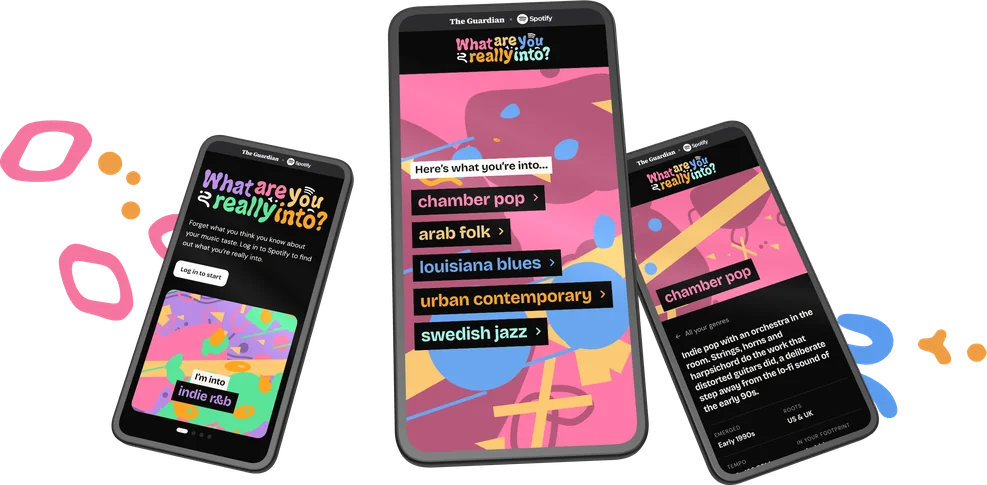
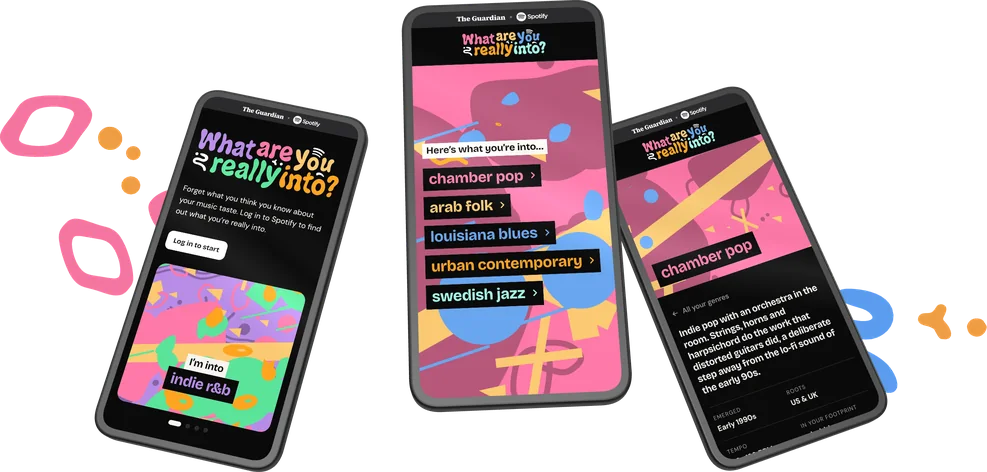
Add files via upload

diff --git a/index.html b/index.html
@@ -315,8 +315,9 @@ setTimeout(function(){ document.documentElement.setAttribute('data-dc-ready','')
   @media (min-width: 701px) and (max-width: 1194px), (min-width: 701px) and (max-width: 1366px) and (orientation: portrait) {
     [data-role="cv-bg"][data-sec="akqa"] { background: radial-gradient(circle at 50% 46%, #DDEBFA 0%, #CFE0F4 35%, #B9CDE8 100%) !important; }
   }
-  /* iPad: a long press on the drawn scenes (intro bubbles, 3D canvases) shouldn't open the save-image menu */
-  canvas, [data-role="cv-stillbox"] img { -webkit-touch-callout: none; -webkit-user-select: none; user-select: none; -webkit-tap-highlight-color: transparent; }
+  /* iPad: a long press on any image, video or scene (intro bubbles, 3D, stills) opens no save-image menu and selects nothing */
+  img, picture, video, canvas, svg, image-slot, iframe,
+  [data-role="cv-imggroup"], [data-role="cv-stillbox"], [data-role="cv-approach"], [data-role="cv-bg"] { -webkit-touch-callout: none; -webkit-user-select: none; user-select: none; -webkit-tap-highlight-color: transparent; }
   [data-role="cv-title"] { transition:opacity 520ms ease 120ms, transform 620ms cubic-bezier(.16,1,.3,1) 120ms, color 500ms ease !important; }
   [data-role="cv-desc"] > div:first-child { transition:color 500ms ease; }
   html[data-smart-bg="zurich"] [data-role="cv-entry"][data-smart="true"] [data-role="cv-title"],
@@ -375,7 +376,7 @@ setTimeout(function(){ document.documentElement.setAttribute('data-dc-ready','')
         <sc-if value="{{ e.approachOn }}" hint-placeholder-val="{{ false }}">
           <div data-role="cv-approach" style="position:absolute; inset:0; z-index:6; transform:translateX({{ e.introDx }}); transition:transform 820ms cubic-bezier(.3,0,.2,1)">
             <sc-if value="{{ e.approachNear }}" hint-placeholder-val="{{ false }}">
-              <iframe src="./portrait/?v=24" title="My approach: Paul at his desk and on his bike" loading="eager" style="width:100%; height:100%; border:0; display:block; background:transparent"></iframe>
+              <iframe src="./portrait/?v=25" title="My approach: Paul at his desk and on his bike" loading="eager" style="width:100%; height:100%; border:0; display:block; background:transparent"></iframe>
             </sc-if>
           </div>
         </sc-if>
@@ -383,21 +384,21 @@ setTimeout(function(){ document.documentElement.setAttribute('data-dc-ready','')
           <sc-if value="{{ e.wide4 }}" hint-placeholder-val="{{ false }}">
             <div data-role="cv-vf3d" style="position:absolute; left:30%; right:2%; top:6%; bottom:12%; z-index:2; transform:translateX({{ e.images.0.dx }}); transition:transform 820ms cubic-bezier(.3,0,.2,1)">
               <sc-if value="{{ e.vf3dNear }}" hint-placeholder-val="{{ false }}">
-                <iframe ref="{{ e.vf3dRef }}" src="./vodafone.html?embed=1&v=2" title="Vodafone app screens in 3D" loading="eager" fetchpriority="high" style="width:100%; height:100%; border:0; display:block; background:transparent; touch-action:none"></iframe>
+                <iframe ref="{{ e.vf3dRef }}" src="./vodafone.html?embed=1&v=3" title="Vodafone app screens in 3D" loading="eager" fetchpriority="high" style="width:100%; height:100%; border:0; display:block; background:transparent; touch-action:none"></iframe>
               </sc-if>
             </div>
           </sc-if>
           <sc-if value="{{ e.wide4Even }}" hint-placeholder-val="{{ false }}">
             <div data-role="cv-akqa3d" style="position:absolute; left:0; right:0; top:0; bottom:0; z-index:2; transform:translateX({{ e.images.0.dx }}); transition:transform 820ms cubic-bezier(.3,0,.2,1)">
               <sc-if value="{{ e.akqa3dNear }}" hint-placeholder-val="{{ false }}">
-                <iframe src="./akqa.html?embed=1&v=20260910b" title="AKQA cardiovascular iPad app in 3D" loading="eager" allowtransparency="true" style="width:100%; height:100%; border:0; display:block; background:transparent; touch-action:none"></iframe>
+                <iframe src="./akqa.html?embed=1&v=20261005" title="AKQA cardiovascular iPad app in 3D" loading="eager" allowtransparency="true" style="width:100%; height:100%; border:0; display:block; background:transparent; touch-action:none"></iframe>
               </sc-if>
             </div>
           </sc-if>
           <sc-if value="{{ e.wide3 }}" hint-placeholder-val="{{ false }}">
             <div data-role="cv-gu3d" style="position:absolute; left:0; right:0; top:0; bottom:0; z-index:2; transform:translateX({{ e.images.0.dx }}); transition:transform 820ms cubic-bezier(.3,0,.2,1)">
               <sc-if value="{{ e.gu3dNear }}" hint-placeholder-val="{{ false }}">
-                <iframe ref="{{ e.gu3dRef }}" src="./guardian.html?embed=1&v=12" title="The Guardian x Spotify app screens in 3D" loading="eager" allowtransparency="true" style="width:100%; height:100%; border:0; display:block; background:transparent; touch-action:none"></iframe>
+                <iframe ref="{{ e.gu3dRef }}" src="./guardian.html?embed=1&v=14" title="The Guardian x Spotify app screens in 3D" loading="eager" allowtransparency="true" style="width:100%; height:100%; border:0; display:block; background:transparent; touch-action:none"></iframe>
               </sc-if>
             </div>
           </sc-if>
@@ -460,7 +461,7 @@ setTimeout(function(){ document.documentElement.setAttribute('data-dc-ready','')
               <div style="width:100%; height:100%; transform:translateX({{ e.introDx }}); transition:transform 820ms cubic-bezier(.3,0,.2,1)">
                 <div style="width:100%; height:100%; animation:none">
                   <sc-if value="{{ e.bt3dNear }}" hint-placeholder-val="{{ true }}">
-                    <iframe data-role="cv-bt3d" src="./nespresso.html?v=3" title="Nespresso Built Together composition" loading="eager" fetchpriority="high" allowtransparency="true" scrolling="no" style="position:absolute; inset:0; width:100%; height:100%; border:0; display:block; background:transparent"></iframe>
+                    <iframe data-role="cv-bt3d" src="./nespresso.html?v=4" title="Nespresso Built Together composition" loading="eager" fetchpriority="high" allowtransparency="true" scrolling="no" style="position:absolute; inset:0; width:100%; height:100%; border:0; display:block; background:transparent"></iframe>
                   </sc-if>
                 </div>
               </div>
@@ -469,7 +470,7 @@ setTimeout(function(){ document.documentElement.setAttribute('data-dc-ready','')
           <sc-if value="{{ e.smartComp }}" hint-placeholder-val="{{ false }}">
             <div data-role="cv-smart3d" style="position:absolute; left:0; right:0; top:0; bottom:0; z-index:2; transform:translateX({{ e.images.0.dx }}); transition:transform 820ms cubic-bezier(.3,0,.2,1) {{ e.images.0.delay }}ms">
               <sc-if value="{{ e.smart3dNear }}" hint-placeholder-val="{{ false }}">
-                <iframe ref="{{ e.smart3dRef }}" src="./smart.html?embed=1&bg=transparent&v=14" title="Smart Pension and Zurich app screens in 3D" loading="eager" allowtransparency="true" scrolling="no" style="width:100%; height:100%; border:0; display:block; background:transparent"></iframe>
+                <iframe ref="{{ e.smart3dRef }}" src="./smart.html?embed=1&bg=transparent&v=15" title="Smart Pension and Zurich app screens in 3D" loading="eager" allowtransparency="true" scrolling="no" style="width:100%; height:100%; border:0; display:block; background:transparent"></iframe>
               </sc-if>
             </div>
           </sc-if>
@@ -1307,9 +1308,9 @@ class Component extends DCLogic {
         introDx: on ? "0px" : (i < active ? "calc(-100vw - 100%)" : "calc(100vw + 100%)"),
         stillOn: stills && !!STILLS[d.short],
         stillName: (STILLS[d.short] || [""])[0],
-        stillSrc: STILLS[d.short] ? "./assets/mobile/" + STILLS[d.short][0] + ".webp?v=11" : "",
+        stillSrc: STILLS[d.short] ? "./assets/mobile/" + STILLS[d.short][0] + ".webp?v=12" : "",
         // AKQA: the upright capture frames the iPad larger, so it is used sideways too
-        stillLand: STILLS[d.short] ? "./assets/mobile/" + STILLS[d.short][0] + (STILLS[d.short][0] === "akqa" ? "" : "-land") + ".webp?v=11" : "",
+        stillLand: STILLS[d.short] ? "./assets/mobile/" + STILLS[d.short][0] + (STILLS[d.short][0] === "akqa" ? "" : "-land") + ".webp?v=12" : "",
         stillAlt: STILLS[d.short] ? STILLS[d.short][1] : "",
         blobLeftPx: ((this.state.mx || 0) * 26).toFixed(1) + "px",
         blobLeftPy: ((this.state.my || 0) * 16).toFixed(1) + "px",

diff --git a/portrait/script.js b/portrait/script.js
@@ -115,7 +115,25 @@
   const target = { mix: 1, px: 0, py: 0 };
   const cur = { mix: 1, px: 0, py: 0 };
   let touched = false, travelled = 0, lastX = null, lastMove = 0;
+  // Touch: a drag reveals the other picture (grab the line and pull it across); on release it
+  // settles on whichever picture is mostly showing. A tap alone changes nothing.
+  // Mouse: the cursor's position across the page picks the picture, as before.
+  let drag = null;
   const onPoint = e => {
+    if (e.pointerType === 'touch') {
+      if (e.type === 'pointerdown') drag = { x: e.clientX, mix: target.mix };
+      if (!drag) return;
+      const fw = Math.max(1, w || innerWidth);
+      target.mix = Math.min(1, Math.max(0, drag.mix - (e.clientX - drag.x) / (fw * 0.8)));   // pull right → desk
+      target.px = 0; target.py = 0;
+      if (!touched && Math.abs(e.clientX - drag.x) > 12) {
+        touched = true;
+        hint.classList.add('is-gone');
+        document.getElementById('swipecue').classList.add('is-gone');
+      }
+      lastMove = performance.now();
+      return;
+    }
     const nx = e.clientX / innerWidth, ny = e.clientY / innerHeight;
     target.mix = smooth(Math.min(1, Math.max(0, (nx - 0.3) / 0.4)));
     target.px = nx - 0.5;
@@ -131,6 +149,13 @@
   };
   addEventListener('pointermove', onPoint, { passive: true });
   addEventListener('pointerdown', onPoint, { passive: true });
+  const endDrag = e => {
+    if (!drag || e.pointerType !== 'touch') return;
+    drag = null;
+    target.mix = target.mix < 0.5 ? 0 : 1;           // settle on the nearer picture
+  };
+  addEventListener('pointerup', endDrag, { passive: true });
+  addEventListener('pointercancel', endDrag, { passive: true });
   document.addEventListener('pointerleave', () => { target.px = 0; target.py = 0; });
 
   // wipe helpers: x of the seam at mid-height (the out-of-focus scene keeps a sliver at the narrow end)

diff --git a/portrait/index.html b/portrait/index.html
@@ -10,7 +10,7 @@
 <!-- inside the homepage timeline: switch to the embedded layout before the first paint, so the
      standalone layout never flashes up on load -->
 <script>try { if (window.parent !== window) document.documentElement.classList.add('is-embedded'); } catch (e) { document.documentElement.classList.add('is-embedded'); }</script>
-<link rel="stylesheet" href="style.css?v=19">
+<link rel="stylesheet" href="style.css?v=20">
 </head>
 <body>
 <main class="portrait" id="portrait" style="--mix:1">
@@ -106,6 +106,6 @@
 
   <p class="hint" id="hint" aria-hidden="true"><span>&larr;</span> move <span>&rarr;</span></p>
 </main>
-<script src="script.js?v=21"></script>
+<script src="script.js?v=22"></script>
 </body>
 </html>

diff --git a/guardian-scene.js b/guardian-scene.js
@@ -185,9 +185,9 @@ class GuardianSceneCopy extends HTMLElement {
       g.add(sheen);
 
       const layout = [
-        { x: -6.6, y: -0.7, z: -0.4, rz: -0.26, scale: 0.86 },
-        { x: 0.4,  y: 0.9,  z: 1.1,  rz: 0.07,  scale: 1.2 },
-        { x: 6.4,  y: -0.4, z: -0.6, rz: 0.32,  scale: 0.92 }
+        { x: -6.6, y: -0.7, z: -0.4, rz: -0.26, scale: 0.97 },
+        { x: 0.4,  y: 0.9,  z: 1.1,  rz: 0.07,  scale: 1.06 },   // only slightly bigger than the side phones
+        { x: 6.4,  y: -0.4, z: -0.6, rz: 0.32,  scale: 0.97 }
       ][i];
       g.position.set(layout.x, layout.y, layout.z);
       g.rotation.y = 0;

diff --git a/guardian.html b/guardian.html
@@ -36,6 +36,8 @@ try {
   html, body { margin:0; padding:0; height:100%; background:rgba(0,0,0,0) !important; color-scheme:normal; }
   guardian-scene, guardian-scene canvas { background:rgba(0,0,0,0) !important; }
   guardian-scene { display:block; width:100%; height:100vh; min-height:520px; overflow:hidden; touch-action:none; }
+  /* iPad: no save-image menu or selection on a long press */
+  html, body, img, picture, video, canvas, svg, image-slot { -webkit-touch-callout: none; -webkit-user-select: none; user-select: none; -webkit-tap-highlight-color: transparent; }
 </style>
 <script>
 window.CVRES = function (p) {

diff --git a/smart.html b/smart.html
@@ -37,6 +37,8 @@ try {
   smart-scene { display:block; width:100%; height:100%; min-height:0; overflow:hidden; touch-action:none; }
   /* tablet and up the cursor picks Smart (left) or Zurich (right): same left/right cursor as the portrait page */
   @media (min-width: 701px) { html, body { cursor: ew-resize; } }
+  /* iPad: no save-image menu or selection on a long press */
+  html, body, img, picture, video, canvas, svg, image-slot { -webkit-touch-callout: none; -webkit-user-select: none; user-select: none; -webkit-tap-highlight-color: transparent; }
 </style>
 <script>
 window.CVRES = function (p) {

diff --git a/akqa.html b/akqa.html
@@ -31,6 +31,8 @@ try {
   html.standalone, html.standalone body { background: #cbdaec; }
   html.standalone body { background: radial-gradient(circle at 50% 46%, #ebf6ff 0%, #ebf6ff 20%, #dbe8f7 62%, #cbdaec 100%); }
   canvas { display: block; touch-action: none; cursor: default; }
+  /* iPad: no save-image menu or selection on a long press */
+  html, body, img, picture, video, canvas, svg, image-slot { -webkit-touch-callout: none; -webkit-user-select: none; user-select: none; -webkit-tap-highlight-color: transparent; }
 </style>
 <script>
 window.CVRES = function (p) {

diff --git a/nespresso.html b/nespresso.html
@@ -20,6 +20,8 @@
 <style>
   html,body{margin:0;padding:0;background:transparent;overflow:hidden;height:100%}
   a{color:#F4C5CD}a:hover{color:#fff}
+  /* iPad: no save-image menu or selection on a long press */
+  html, body, img, picture, video, canvas, svg, image-slot { -webkit-touch-callout: none; -webkit-user-select: none; user-select: none; -webkit-tap-highlight-color: transparent; }
 </style>
 </helmet>
 <div style="position:fixed;inset:0;background:transparent;perspective:1600px;overflow:hidden">

diff --git a/vodafone.html b/vodafone.html
@@ -51,6 +51,8 @@ try {
     touch-action: none; cursor: default;
   }
   #stage canvas { display: block; width: 100%; height: 100%; opacity: 0; transition: opacity 200ms ease-out; }
+  /* iPad: no save-image menu or selection on a long press */
+  html, body, img, picture, video, canvas, svg, image-slot { -webkit-touch-callout: none; -webkit-user-select: none; user-select: none; -webkit-tap-highlight-color: transparent; }
 </style>
 <script>
 window.CVRES = function (p) {

diff --git a/portrait/style.css b/portrait/style.css
@@ -362,3 +362,6 @@ body::before {
     rgba(200, 220, 255, .22) calc(var(--s, 0px) + 3px),
     transparent calc(var(--s, 0px) + 10px));
 }
+
+/* iPad: no save-image menu or selection on a long press over the pictures */
+.frame, .flat, img, picture, video, canvas, svg, image-slot { -webkit-touch-callout: none; -webkit-user-select: none; user-select: none; -webkit-tap-highlight-color: transparent; }
